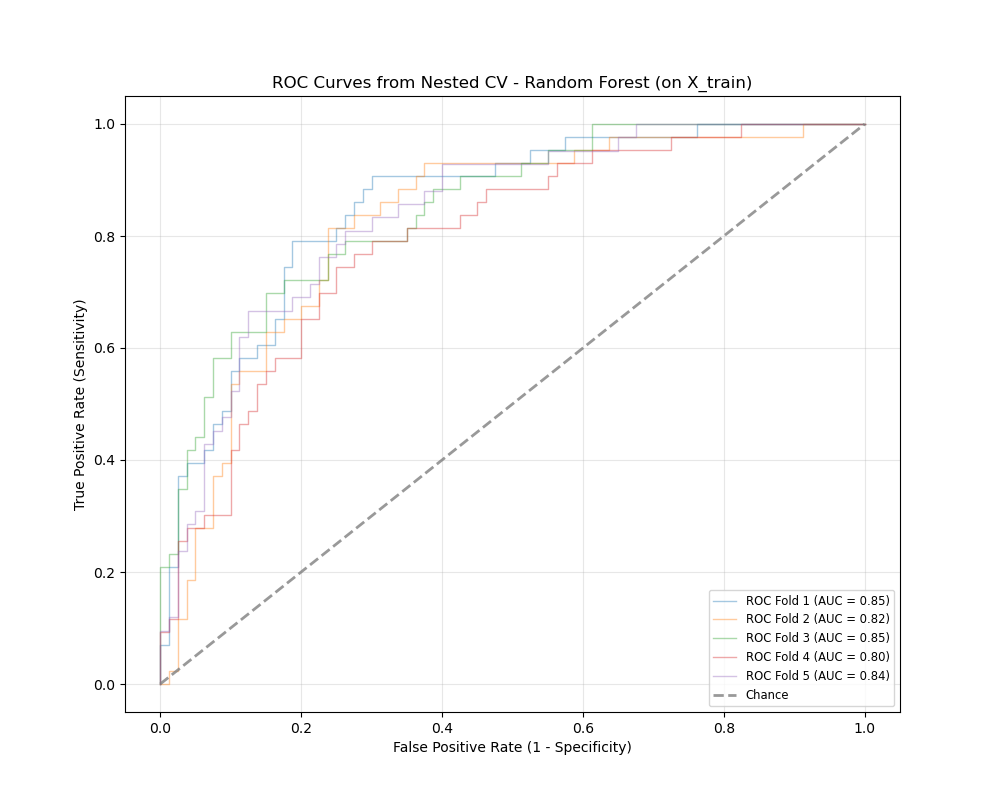
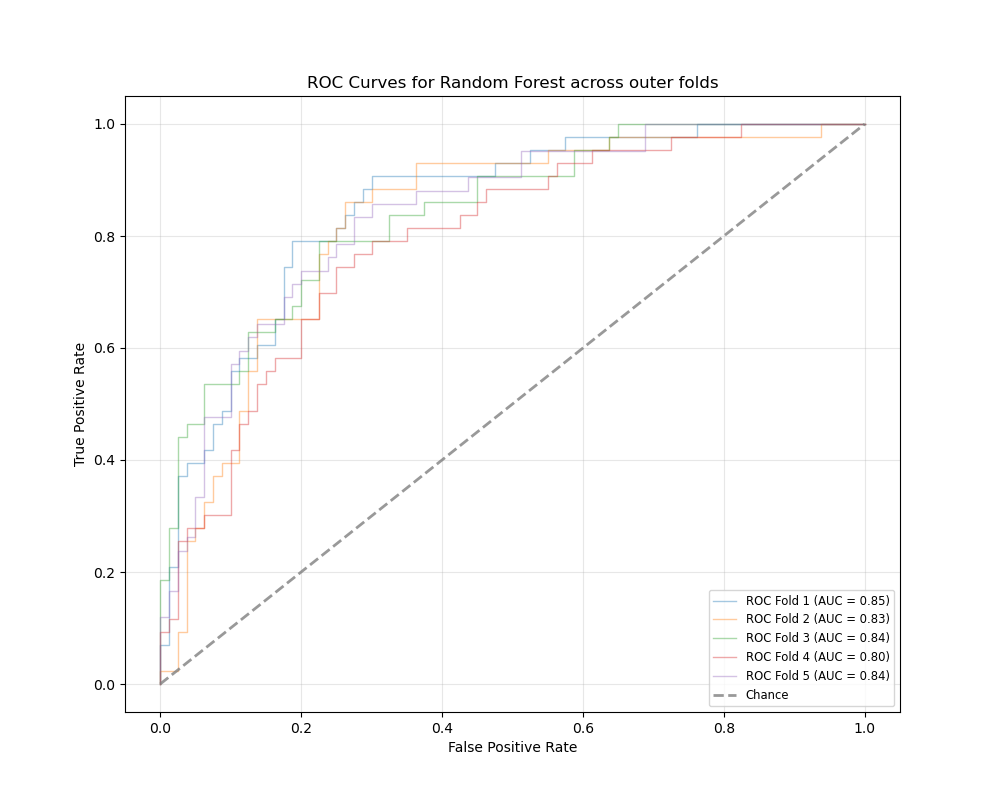
aktualisieren

diff --git a/ML_Models/Rand_Forest_models/RF_with_cleaned_data.py b/ML_Models/Rand_Forest_models/RF_with_cleaned_data.py
@@ -165,52 +165,50 @@ print(f"Zusammenfassung der CV-Metriken gespeichert in: {cv_summary_filepath}")
 
 
 # --- Schritt 4.5: Mittlere ROC-Kurve plotten und finalisieren ---
-# --- KORRIGIERTER Schritt 4.5: Plotten ALLER Fold-ROC-Kurven, Mittlere ROC-Kurve und Standardabweichung ---
+# --- ANGEPASST, um dem gewünschten Layout zu entsprechen ---
 print("\nSchritt 4.5: Plotten der ROC-Kurven (alle Folds und Mittelwert)...")
-plt.figure(figsize=(10, 8))
+plt.figure(figsize=(10, 8)) # You can adjust figsize if needed, e.g., (8,6) like your example
 
 # Plotten jeder einzelnen ROC-Kurve pro Fold
 # all_fprs, all_tprs_raw und aucs_list wurden in Schritt 4 gefüllt
 for i in range(len(all_fprs)):
-    plt.plot(all_fprs[i], all_tprs_raw[i], lw=1, alpha=0.4, # Dünnere, halbtransparente Linien
-             label=f'ROC Fold {i+1} (AUC = {aucs_list[i]:.2f})' if i < 5 else None) # Legende nur für die ersten paar Folds, sonst unübersichtlich
+    plt.plot(all_fprs[i], all_tprs_raw[i], lw=1, alpha=0.3, # Dünnere, transparentere Linien für einzelne Folds
+             label=f'ROC Fold {i+1} (AUC = {aucs_list[i]:.2f})' if i < 2 else None) # Optional: Legende nur für die ersten paar Folds
 
-# Chance-Linie
-plt.plot([0, 1], [0, 1], linestyle='--', lw=2, color='grey', label='Chance', alpha=.8)
-"""
-# Mittlere TPR und AUC (berechnet mit interpolierten TPRs aus tprs_interp_list)
-mean_tpr = np.mean(tprs_interp_list, axis=0) # tprs_interp_list wurde in Schritt 4 korrekt gefüllt
-mean_tpr[-1] = 1.0
-mean_auc_val = np.mean(aucs_list)
-std_auc_val = np.std(aucs_list)
-plt.plot(mean_fpr, mean_tpr, color='blue', # mean_fpr wurde in Schritt 4 definiert
-         label=f'Mean ROC (AUC = {mean_auc_val:.2f} $\\pm$ {std_auc_val:.2f})',
-         lw=2.5, alpha=.9) # Dickere Linie für Mittelwert
 
-# Standardabweichungsband
-std_tpr = np.std(tprs_interp_list, axis=0)
-tprs_upper = np.minimum(mean_tpr + std_tpr, 1)
-tprs_lower = np.maximum(mean_tpr - std_tpr, 0)
-plt.fill_between(mean_fpr, tprs_lower, tprs_upper, color='cornflowerblue', alpha=.3,
-                 label=r'$\pm$ 1 std. dev.')
-"""
+# --- ANWENDUNG DES GEWÜNSCHTEN LAYOUTS ---
+
+# Zufallsklassifikator-Linie (wie in Ihrem Beispiel)
+plt.plot([0, 1], [0, 1], linestyle='--', color='red', label='Random Classifier') # 'Random Classifier' statt 'Chance'
+
+# Achsenbeschriftungen (wie in Ihrem Beispiel)
+plt.xlabel('False Positive Rate', fontsize=12) # Optional: fontsize anpassen
+plt.ylabel('True Positive Rate', fontsize=12) # Optional: fontsize anpassen
+
+# Titel (angepasst für Ihren Kontext, aber mit Schriftgröße aus dem Beispiel)
+plt.title('ROC Curve — Random Forest (5-fold CV)', fontsize=14) # Modellname angepasst
+
+# Legende (Position und Schriftgröße wie in Ihrem Beispiel)
+plt.legend(loc='lower right', fontsize=10)
+
+# Grid (wie in Ihrem Beispiel)
+plt.grid(True, linestyle='--', linewidth=0.5, alpha=0.7)
+
+# Achsenlimits (optional, aber oft gut für saubere Darstellung)
 plt.xlim([-0.05, 1.05])
 plt.ylim([-0.05, 1.05])
-plt.xlabel('False Positive Rate (1 - Specificity)')
-plt.ylabel('True Positive Rate (Sensitivity)')
-plt.title('ROC Curves from Nested CV - Random Forest (on X_train)')
-plt.legend(loc="lower right", fontsize='small')
-plt.grid(alpha=0.3)
-nested_cv_roc_plot_path = os.path.join(main_output_folder, "nested_cv_roc_curves_with_folds_RFC.png")
-plt.savefig(nested_cv_roc_plot_path)
-print(f"Nested CV ROC Kurve (mit Folds) gespeichert in: {nested_cv_roc_plot_path}")
+
+# Layout optimieren (wie in Ihrem Beispiel)
+plt.tight_layout()
+plt.show()  # FLUSH the figure
+plt.savefig("output/RFC_output/RFC_ROC_curve.Folds.png")
 
 
 # --- Schritt 5: Training des finalen Modells mit GridSearchCV auf dem gesamten Trainingsset ---
 print("\nSchritt 5: Training des finalen Modells mit GridSearchCV auf dem gesamten X_train...")
 final_grid_search = GridSearchCV(estimator=rf_base, param_grid=param_grid,
                                  cv=5,
-                                 n_jobs=-1, scoring='roc_auc', verbose=1)
+                                 n_jobs=-1, scoring='recall', verbose=1)
 final_grid_search.fit(X_train, y_train)
 print("\nBeste gefundene Parameter für das finale Modell (auf X_train):")
 print(final_grid_search.best_params_)
@@ -287,17 +285,35 @@ print(f"Zusammenfassung der finalen Test-Metriken gespeichert in: {final_test_su
 # --- Ende Speichern der finalen Test-Metriken ---
 
 # Plotten der finalen Konfusionsmatrix (normalisiert zeilenweise)
-print("\nPlotting der normalisierten Konfusionsmatrix (Zeilen = 100%) für X_test...")
+
+print("\nPlotting der normalisierten Konfusionsmatrix (Werte als ganze Prozentzahlen) für X_test...")
 plt.figure(figsize=(8, 6))
-cm_final_normalized_row = confusion_matrix(y_test, y_pred_final, normalize='true') # Normalisierung hier
-sns.heatmap(cm_final_normalized_row, annot=True, fmt=".2%", cmap="Blues", cbar=True, # Formatierung als Prozent
-            xticklabels=best_rf_model.classes_, yticklabels=best_rf_model.classes_)
+
+# 1. Normalisierte Konfusionsmatrix berechnen (Werte sind Anteile, z.B. 0.7623)
+cm_final_normalized_row = confusion_matrix(y_test, y_pred_final, normalize='true')
+
+# 2. Werte für Annotationen vorbereiten: Anteile * 100 (z.B. 0.7623 -> 76.23)
+# Diese werden dann durch 'fmt' auf ganze Zahlen gerundet.
+cm_annot_values = cm_final_normalized_row * 100
+
+sns.heatmap(cm_final_normalized_row,  # Farben basieren auf Anteilen (0-1)
+            annot=cm_annot_values,    # Zahlen in den Zellen sind Prozentwerte (0-100)
+            fmt=".2f",                # Format als ganze Zahl (gerundet)
+            cmap="Blues",
+            cbar=True,                # Colorbar zeigt weiterhin Skala 0-1 für die Farben
+            xticklabels=["No Diabetes ", "Diabetes "],
+            yticklabels=["No Diabetes ", "Diabetes "])
+
 plt.xlabel("Predicted Label")
 plt.ylabel("True Label")
-plt.title("Random Forest Konfusionsmatrix (in Prozent)") # Aktueller Titel
-cm_plot_path = os.path.join(main_output_folder, "RFC_confusion_matrix_Prozent.png")
+# Der Titel verdeutlicht, dass die Zahlen in den Zellen Prozentwerte sind.
+plt.title("Random Forest Confusionmatrix (%)")
+
+# Dateinamen anpassen, um den Inhalt widerzuspiegeln
+cm_plot_path = os.path.join(main_output_folder, "RFC_confusion_matrix_Percentage.png")
 plt.savefig(cm_plot_path)
 print(f"Finale Konfusionsmatrix gespeichert in: {cm_plot_path}")
+plt.show() # Um den Plot direkt anzuzeigen
 
 
 # --- Schritt 8: Merkmalswichtigkeit des finalen OPTIMIERTEN Modells ---
@@ -325,9 +341,6 @@ else:
     print("Konnte Merkmalswichtigkeit nicht bestimmen (Modell hat kein 'feature_importances_').")
 
 
-
-
-
 # --- Schritt 9: ROC-Kurve des finalen OPTIMIERTEN Modells auf X_test plotten ---
 print("\nSchritt 9: ROC-Kurve des finalen Modells auf X_test plotten...")
 fpr_final_test, tpr_final_test, _ = roc_curve(y_test, y_pred_proba_final)
@@ -344,6 +357,7 @@ plt.grid(alpha=0.3)
 final_roc_plot_path = os.path.join(main_output_folder, "roc_curve_final_model_RFC.png")
 plt.savefig(final_roc_plot_path)
 print(f"Finale ROC-Kurve gespeichert in: {final_roc_plot_path}")
+
 
 
 
